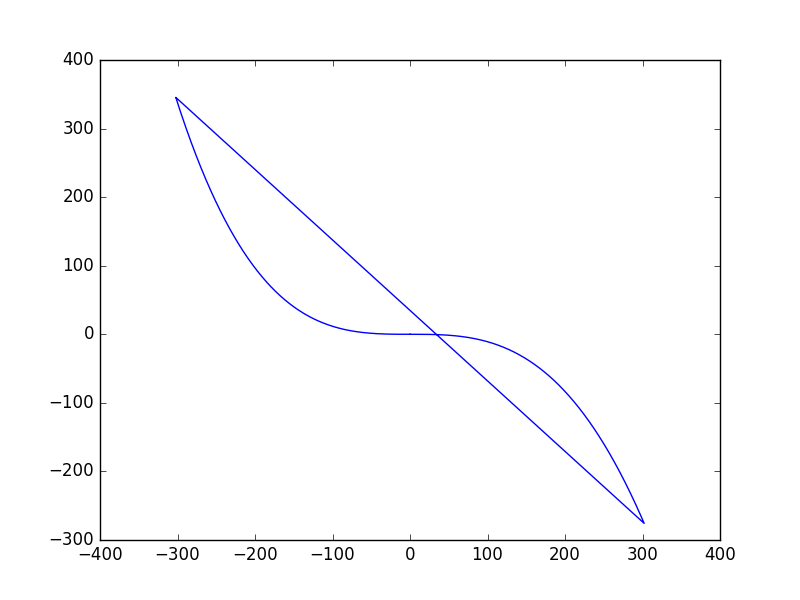
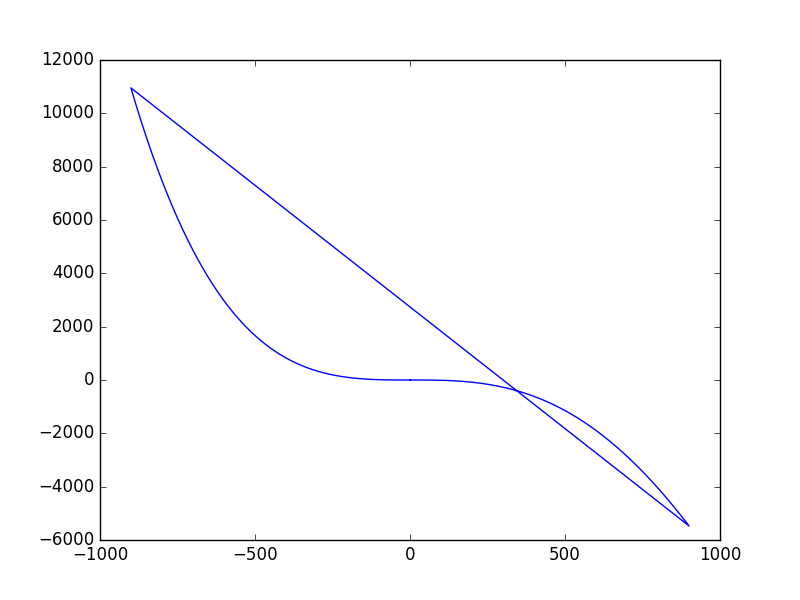
changed the gitignore

diff --git a/plotters_animators.py b/plotters_animators.py
@@ -1,5 +1,5 @@
 import matplotlib as mpl
-mpl.use('Agg')
+#mpl.use('Agg')
 import matplotlib.pyplot as plt
 import numpy as np
 
@@ -74,7 +74,8 @@ def plotter_dbm_lams_large(modes,sim_wind,U,which,lams_vec):
     plt.grid()
     plt.xlim([np.min(sim_wind.lv),np.max(sim_wind.lv)])
     plt.savefig("figures/wavelength/wavelength_space_final.png",bbox_inched='tight')
-    plt.close('all')
+    
+    #plt.close('all')
    
     fig = plt.figure(figsize=(20.0, 10.0))
     for mode in modes:     
@@ -87,9 +88,12 @@ def plotter_dbm_lams_large(modes,sim_wind,U,which,lams_vec):
     plt.xlim([np.min(sim_wind.fv),np.max(sim_wind.fv)])
     plt.grid()
     plt.savefig("figures/freequency/freequency_space_final.png",bbox_inched='tight')
-    plt.close('all')
     
-
+    #plt.close('all')
+    
+    
+    
+    plt.show()
 
     return 0
 

diff --git a/mm_gnlse_2D.py b/mm_gnlse_2D.py
@@ -138,7 +138,7 @@ def lam_p2_vary(lam_s_max,lam_p1,Power_input,int_fwm,plot_conv,gama,par = False,
 	"----------------------Obtain the Q matrixes------------------------------"
 	M1,M2 = Q_matrixes(int_fwm.nm,int_fwm.n2,lamda,gama)
 	"-------------------------------------------------------------------------"
-	fv,where = fv_creator(900,lam_p1,int_fwm)
+	fv,where = fv_creator(700,lam_p1,int_fwm)
 	sim_wind = sim_window(fv,lamda,lamda_c,int_fwm)
 	if grid_only:
 		return sim_wind
